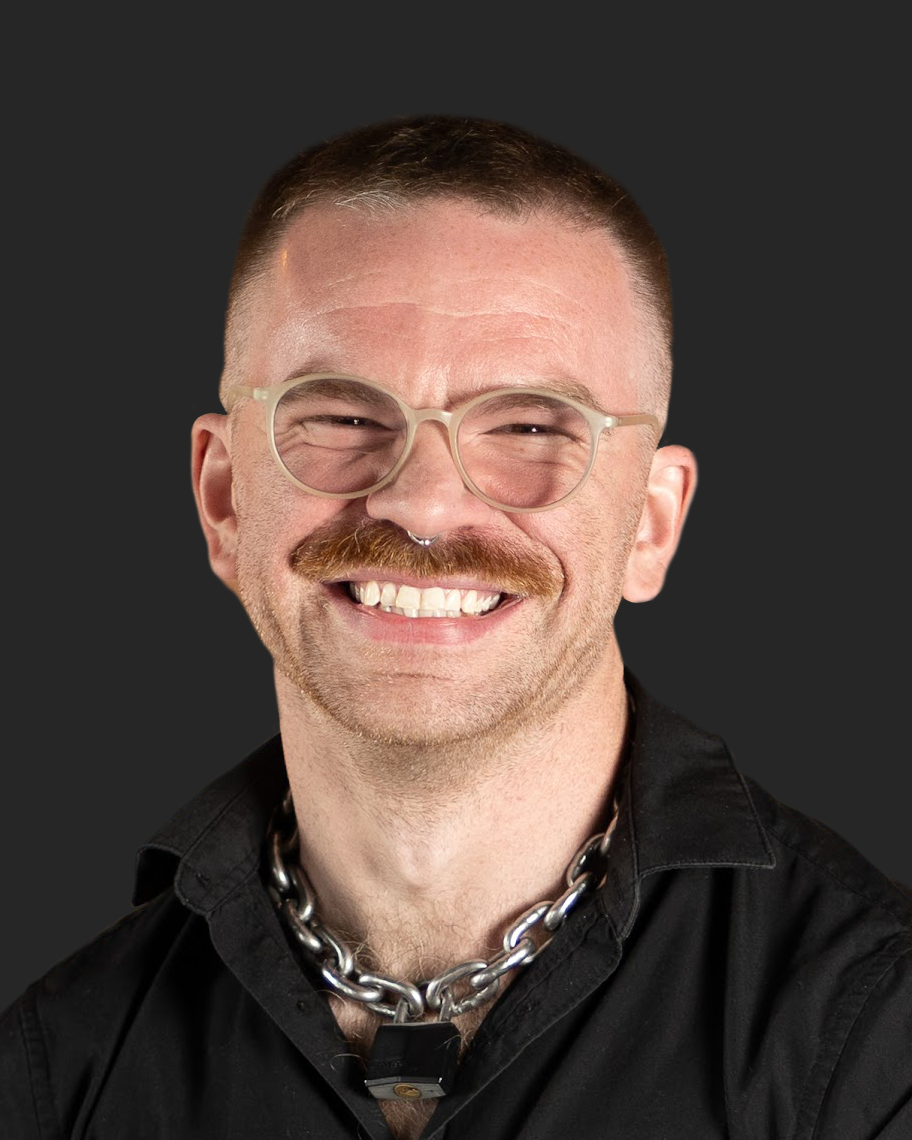
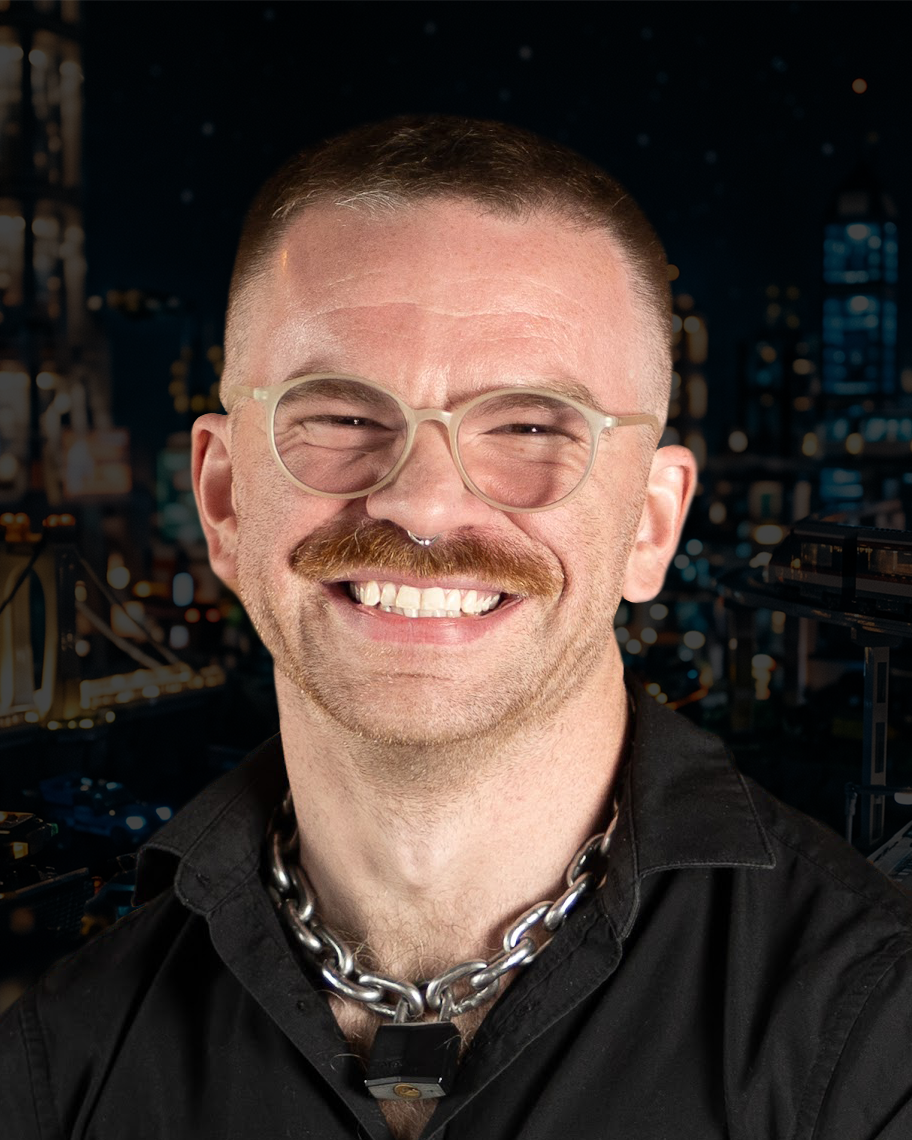
Added vertical background color to Clock component and removed unused CSS keyframes for cleaner implementation. Updated `me.png`.

diff --git a/components/Clock.tsx b/components/Clock.tsx
@@ -11,7 +11,11 @@ export default function Clock() {
   }, 1000);
 
   return (
-    <div className={"h-screen fixed top-0 right-0 [writing-mode:vertical-rl]"}>
+    <div
+      className={
+        "bg-[#0a0a0a] h-screen fixed top-0 right-0 [writing-mode:vertical-rl]"
+      }
+    >
       <p className={"text-xs text-center"}>
         Made with love.&nbsp;&nbsp;|&nbsp;&nbsp;36.155279 N. 115.113745
         W.&nbsp;&nbsp;|&nbsp;&nbsp;{string}

diff --git a/app/globals.css b/app/globals.css
@@ -101,18 +101,6 @@
   --shadow-lg: var(--shadow-lg);
   --shadow-xl: var(--shadow-xl);
   --shadow-2xl: var(--shadow-2xl);
-
-  --animate-blur-in-fade-in: blur-in-fade-in 1s ease-in-out forwards;
-  @keyframes blur-in-fade-in {
-    from {
-      opacity: 0;
-      filter: blur(10px);
-    }
-    to {
-      opacity: 1;
-      filter: blur(0px);
-    }
-  }
 }
 
 @layer base {
